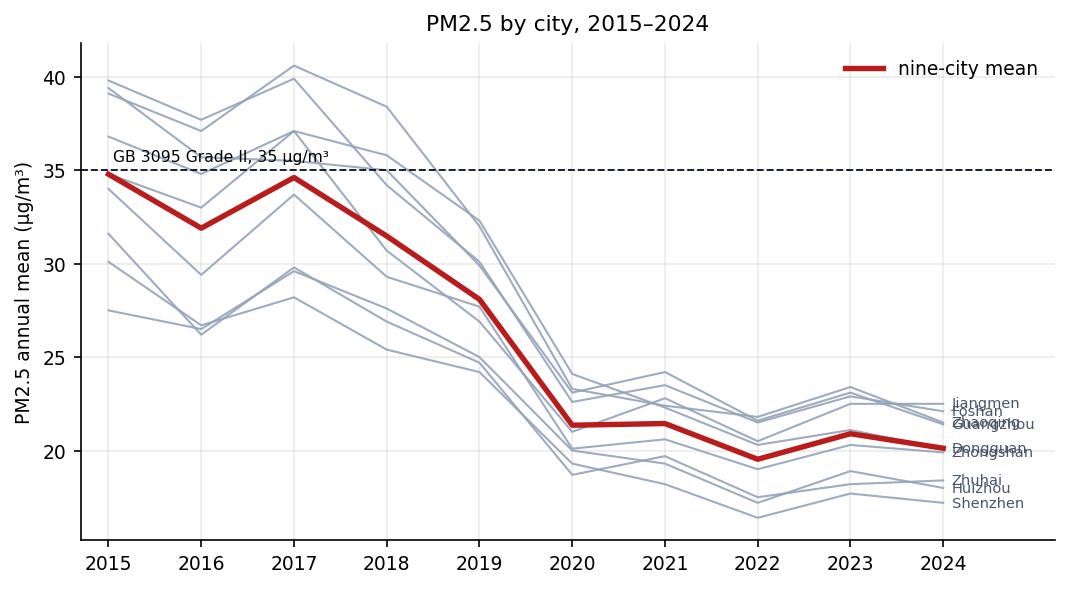
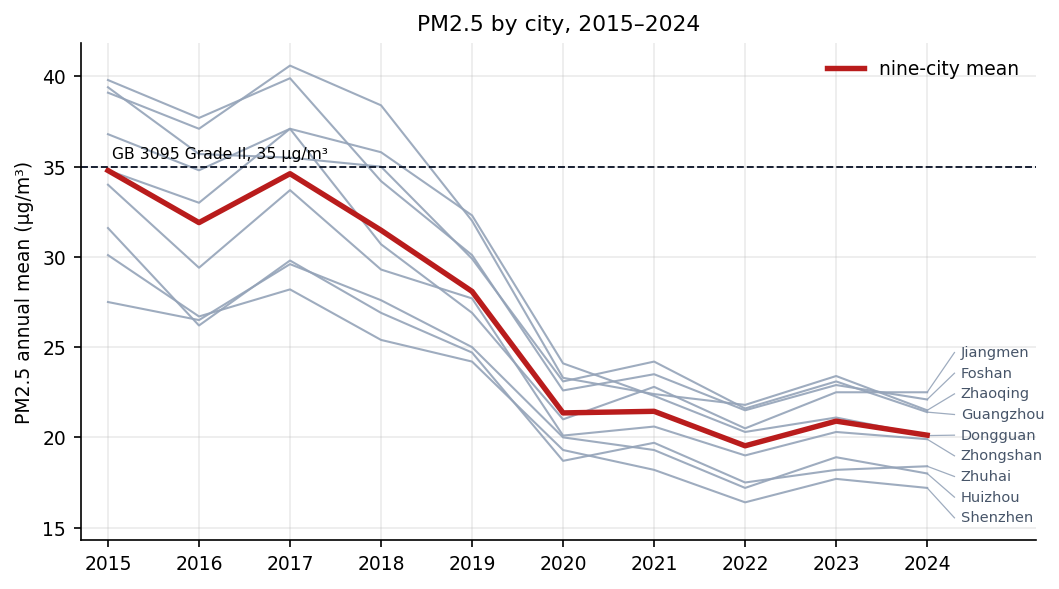
fix: separate overlapping city labels in the PM2.5 trend figure

diff --git a/gba/figures.py b/gba/figures.py
@@ -58,13 +58,40 @@ def diverging_trends(years: pd.DataFrame) -> Path:
     return _save(fig, "pm25_vs_ozone_index.png")
 
 
+def _spread(values: dict[str, float], gap: float) -> dict[str, float]:
+    """Label y-positions: keep order, enforce a minimum gap, stay centred on the originals."""
+    order = sorted(values, key=values.get)
+    pos = [values[k] for k in order]
+    for _ in range(200):
+        moved = False
+        for i in range(1, len(pos)):
+            short = gap - (pos[i] - pos[i - 1])
+            if short > 1e-9:
+                pos[i - 1] -= short / 2
+                pos[i] += short / 2
+                moved = True
+        if not moved:
+            break
+    return dict(zip(order, pos))
+
+
 def pm25_by_city(years: pd.DataFrame) -> Path:
     fig, ax = plt.subplots(figsize=(7.2, 4.0))
+    ends = {}
     for city, group in years.groupby("city"):
         ax.plot(group["year"], group["PM2.5"], color=CITY, linewidth=1.0, alpha=0.9)
         last = group.dropna(subset=["PM2.5"]).iloc[-1]
-        ax.annotate(city, (last["year"], last["PM2.5"]), textcoords="offset points",
-                    xytext=(4, -2), fontsize=7, color="#475569")
+        ends[city] = (last["year"], last["PM2.5"])
+    # Direct labels at the line ends: spread them to a minimum vertical gap and
+    # join each moved label to its line end with a thin leader.
+    low, high = ax.get_ylim()
+    positions = _spread({c: y for c, (_, y) in ends.items()}, 0.043 * (high - low))
+    for city, (x, y) in ends.items():
+        ty = positions[city]
+        if abs(ty - y) > 1e-9:
+            ax.plot([x, x + 0.3], [y, ty], color=CITY, linewidth=0.6, alpha=0.9)
+        ax.annotate(city, (x + 0.3, ty), textcoords="offset points", xytext=(3, 0),
+                    fontsize=7, color="#475569", va="center")
     region = analysis.regional(years)
     ax.plot(region["year"], region["PM2.5"], color=REGION, linewidth=2.6, label="nine-city mean")
     ax.axhline(metrics.GRADE_II["PM2.5"], color="#0f172a", linewidth=0.9, linestyle="--")

diff --git a/README.md b/README.md
@@ -29,7 +29,7 @@ The nine-city mean went from 34.8 µg/m³ in 2015 to 20.1 in 2024: a Theil–Sen
 
 ![Change over the decade, every city and pollutant](outputs/pollutant_trend_heatmap.png)
 
-<!-- outputs/pm25_trend_all_cities.png is not used: its city labels overlap at 2024. Fix the labels, then it can sit beside this heatmap. -->
+![PM2.5 annual mean by city, 2015–2024](outputs/pm25_trend_all_cities.png)
 
 ### Ozone did not
 
